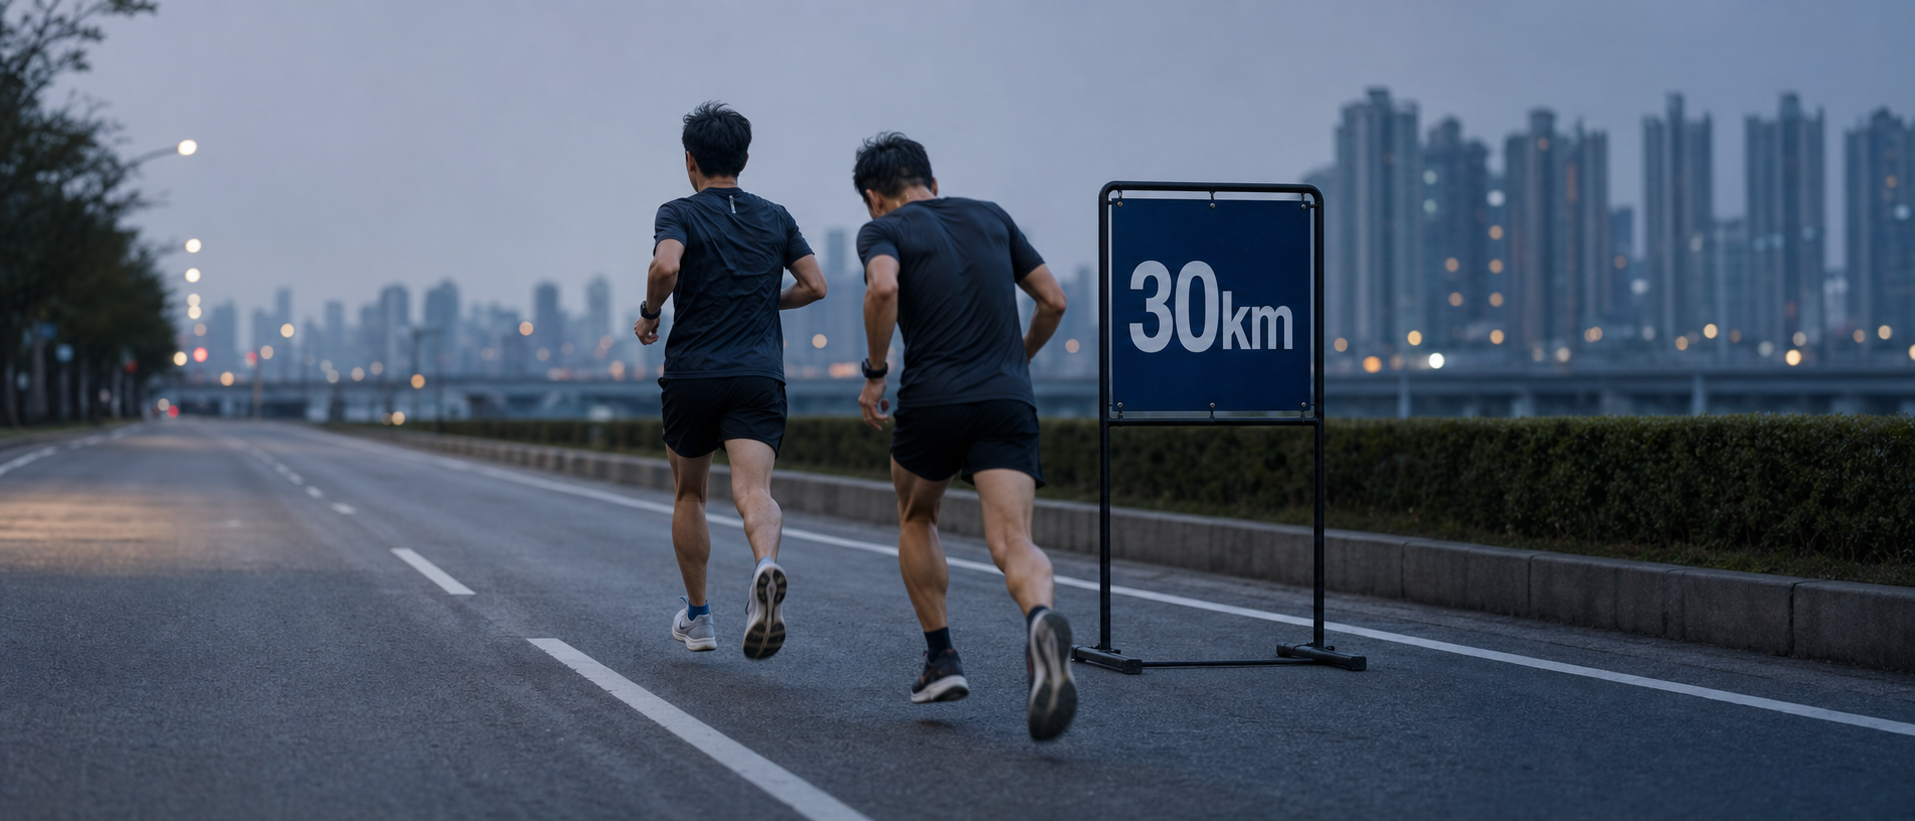
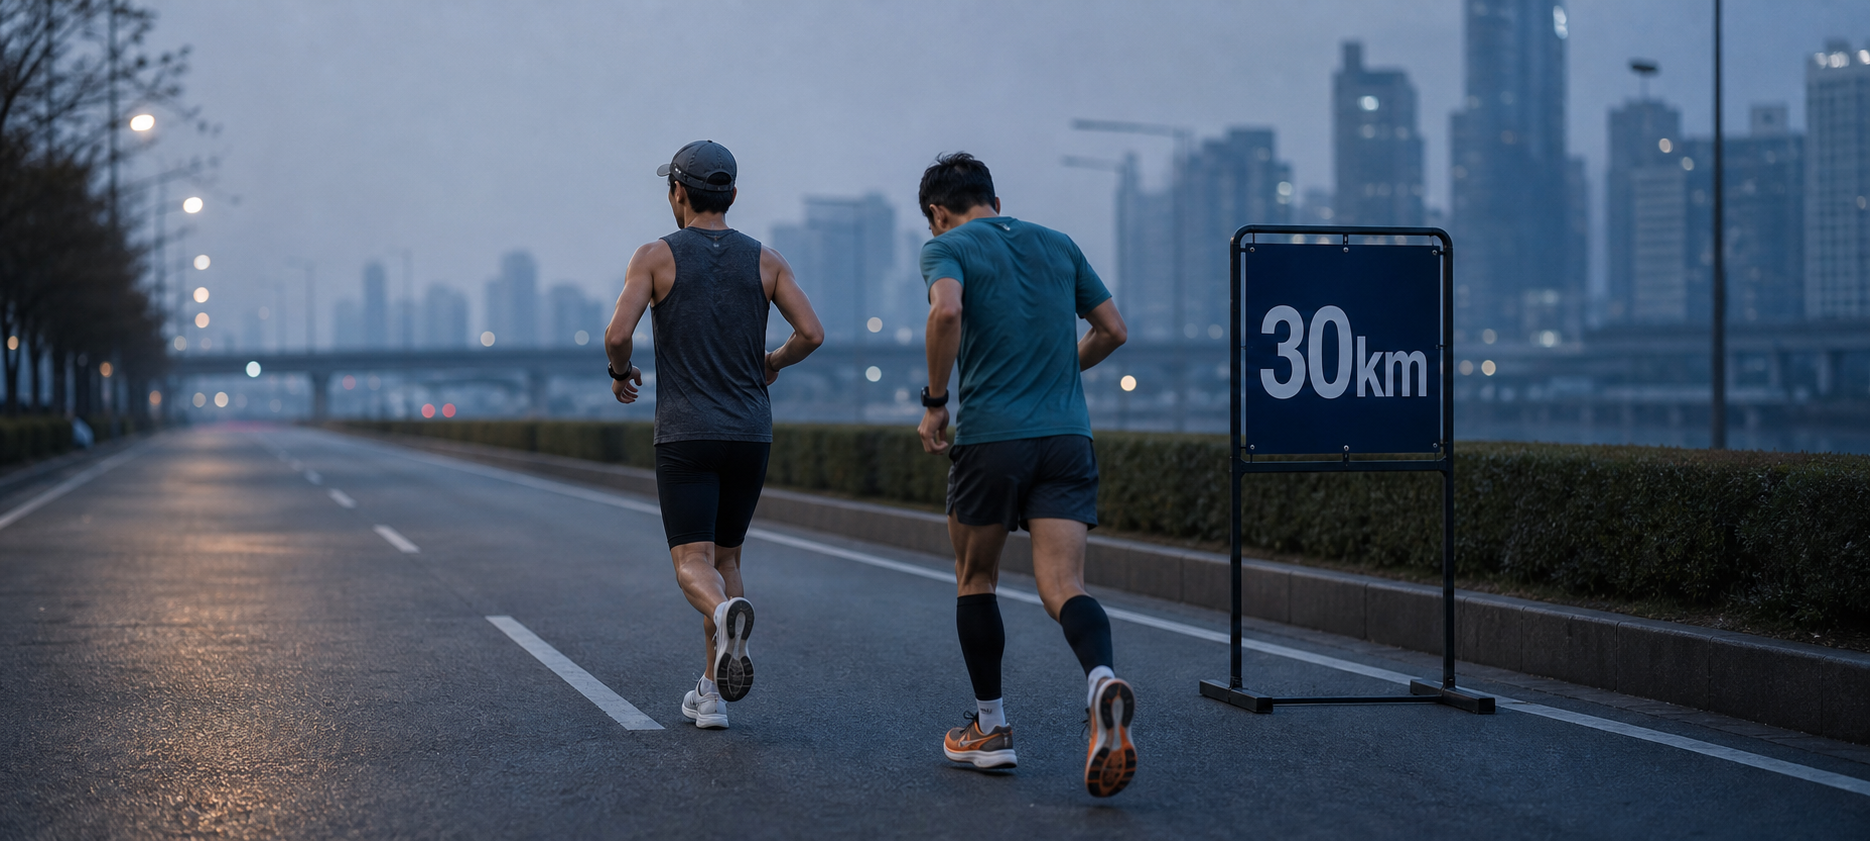
Refresh journal-01-b images 1 and 3

diff --git a/content/draft/journal-01-b.md b/content/draft/journal-01-b.md
@@ -138,7 +138,7 @@ date_drafted: 2026-05-14
 **프롬프트 (GPT Image 2)**:
 > Two male Korean runners passing a '30km' course marker on an empty urban marathon route, captured from a slightly elevated three-quarter rear angle. The runner on the left is mid-stride with composed posture and a steady gait; the runner on the right is half a step behind, shoulders dropping, gait slightly broken. The '30km' course sign sits in the center-right of the frame, clearly readable.
 >
-> Wardrobe: both wear black running shorts and dark technical shirts; no race bibs visible, no visible logos.
+> Wardrobe: make the two runners visibly different but still understated. Left runner wears a charcoal sleeveless running singlet, black half tights, white shoes, and a slate grey cap. Right runner wears a muted teal short-sleeve technical shirt, dark grey shorts, black calf sleeves, and orange-accent running shoes. No matching outfits. No race bibs visible, no visible logos.
 >
 > Composition: low depth of field, '30km' marker in sharp focus, both runners' figures clearly visible but with slight motion blur on the rear runner's legs.
 >
@@ -178,7 +178,7 @@ date_drafted: 2026-05-14
 >
 > The runner is captured in mid-stride from a side angle, relaxed gait, posture upright. The image conveys steady, low-effort pacing — not sprinting.
 >
-> Wardrobe: dark navy long-sleeve technical top, black running tights, light running shoes. No visible logos or race bib.
+> Wardrobe: visually distinct from the header runners. Light stone-grey wind vest over a muted burgundy long-sleeve technical top, olive-green running shorts over black compression liners, pale blue running shoes, and no cap. No visible logos or race bib.
 >
 > Composition: rule of thirds with the runner on the right third, the river horizon line at the lower third. Empty path stretches forward into the frame.
 >
